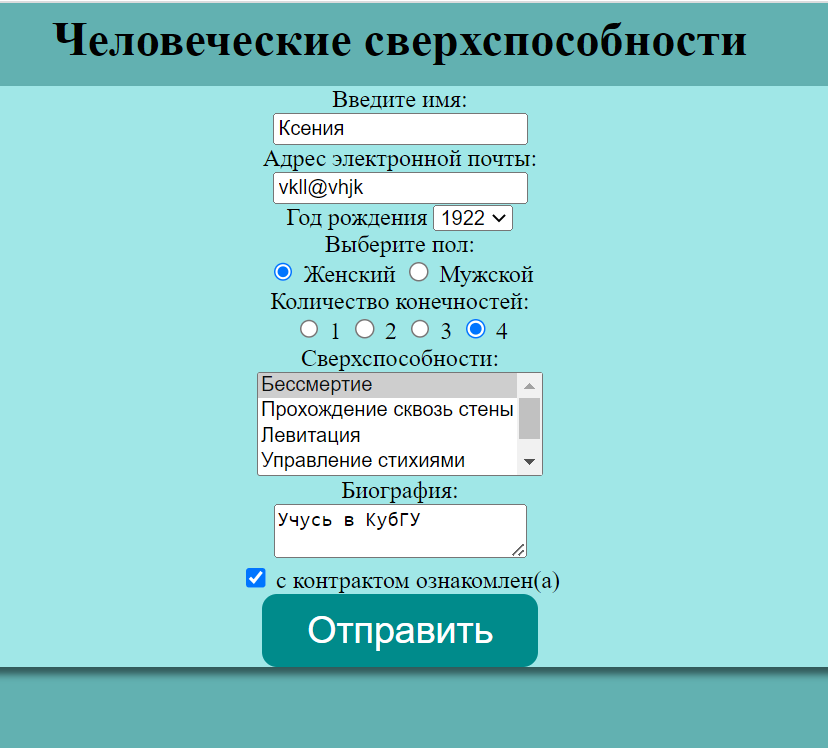
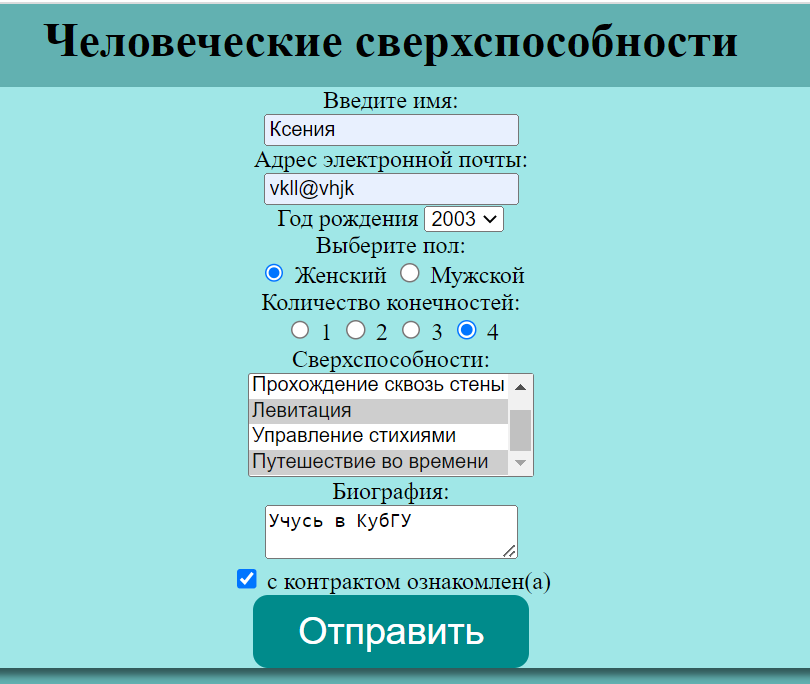
style

diff --git a/index.html b/index.html
@@ -4,7 +4,7 @@
 <head>
     <meta charset="UTF-8">
     <title>Задание №3</title>
-    <link rel="stylesheet" href="style1.css">
+    <link rel="stylesheet" href="style.css">
     <meta name="viewport" content="width=device-width, initial-scale=1.0">
     <meta name="viewport" content="initial-scale=1, maximum-scale=1">
 </head>
@@ -23,21 +23,19 @@
     <div>
         <h3>Пункт 2: Заполнение формы</h3>
         <img src="forma0.png" alt="form0">
-        <p>Заполняем все поля формы.</p>
-    </div>
-    <div>
-        <h3>Пункт 3: Отравка формы</h3>
         <img src="form1.png" alt="form1">
-        <p>После успешной отправки формы появляется сообщение: "Спасибо, результаты сохранены"</p>
+        <img src="form11.png" alt="form11">
+        <p>Заполняем все поля формы. После успешной отправки формы появляется сообщение:
+             "Спасибо, результаты сохранены"</p>
     </div>
     <div>
-        <h3>Пункт 4: Просмотр таблиц</h3>
+        <h3>Пункт 3: Просмотр таблиц</h3>
         <img src="showperson.png" alt="showperson">
         <img src="showsuper.png" alt="showsuper">
         <p>После успешной отправки формы данные о пользователе будут добавлены в таблицы.</p>
     </div>
     <div>
-        <h3>Пункт 5: Заполнение с ошибками</h3>
+        <h3>Пункт 4: Заполнение с ошибками</h3>
         <img src="form2.png" alt="form2">
         <img src="error.png" alt="error">
         <p>При отправке формы с незаполненными полями пользователь получит сообщение с

diff --git a/style.css b/style.css
@@ -1,39 +1,37 @@
 body{
-    margin: 0;
-    background-color: rgb(98, 177, 177);
     display: flex;
     flex-direction: column;
-    align-items: center;
-    font-family: 'Fasthand';
+    margin: 0%;
 }
-.form{
-    background-color: rgb(160, 231, 231);
-    font-weight: 400;
+div {
+    background-color: rgb(131, 200, 200);
+    font-family: "Times New Roman", monotype;
+    font-weight: 200;
     font-style: normal;
-    text-align: center;
-    align-items: center;
-    width: 60%;
-    height: 80%;
-    box-shadow: 10px 5px 5px 0px rgba(0, 0, 0, 0.5);
-
-}
-#название {
-    background-color: rgb(98, 177, 177);
-    border: none;
-    height: 50px;
-    margin: 0 auto;
     text-align: left;
+    padding: 0% 5%;
 }
-h1,h2 {
+header {
+    background-color: rgb(71, 136, 136);
+}
+h2,h3 {
+    font-style: oblique;
     text-align: center;
-    margin: 5px;
 }
-.submit{
-    background-color: darkcyan;
-    padding: 10px 30px;
-    font-size: 25px;
-    border: none;
-    border-radius: 10px;
+p {
+    color: rgb(0, 0, 0);
     text-decoration: none;
-    color: white;
+    border: 3px;
+    tab-size: inherit;
+}
+img{
+    width: 50%;
+    height: 45%;
+}
+footer {
+    background-color: rgb(71,136, 136);
+    text-align: left;
+    font-style: oblique;
+    width: 100%;
+    height: 30px;
 }

diff --git a/style_form.css b/style_form.css
@@ -1,0 +1,39 @@
+body{
+    margin: 0;
+    background-color: rgb(98, 177, 177);
+    display: flex;
+    flex-direction: column;
+    align-items: center;
+    font-family: 'Fasthand';
+}
+.form{
+    background-color: rgb(160, 231, 231);
+    font-weight: 400;
+    font-style: normal;
+    text-align: center;
+    align-items: center;
+    width: 60%;
+    height: 80%;
+    box-shadow: 10px 5px 5px 0px rgba(0, 0, 0, 0.5);
+
+}
+#название {
+    background-color: rgb(98, 177, 177);
+    border: none;
+    height: 50px;
+    margin: 0 auto;
+    text-align: left;
+}
+h1,h2 {
+    text-align: center;
+    margin: 5px;
+}
+.submit{
+    background-color: darkcyan;
+    padding: 10px 30px;
+    font-size: 25px;
+    border: none;
+    border-radius: 10px;
+    text-decoration: none;
+    color: white;
+}

diff --git a/form.php b/form.php
@@ -4,7 +4,7 @@
 <head>
     <meta charset="utf-8">
     <title>Человеческие сверхспособности</title>
-    <link rel="stylesheet" href="style.css">
+    <link rel="stylesheet" href="style_form.css">
 </head>
 
 <body>
